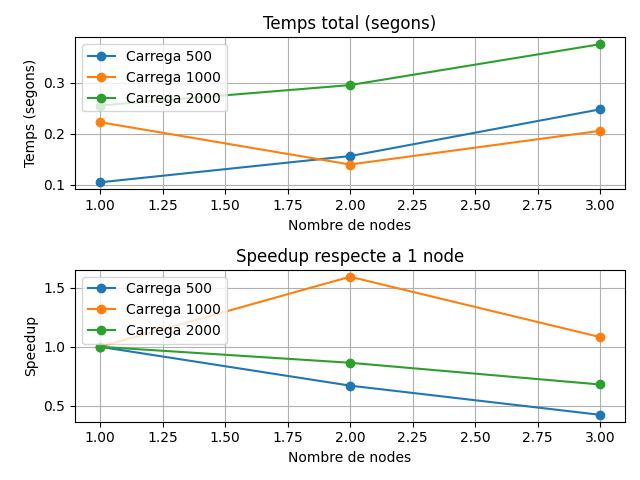
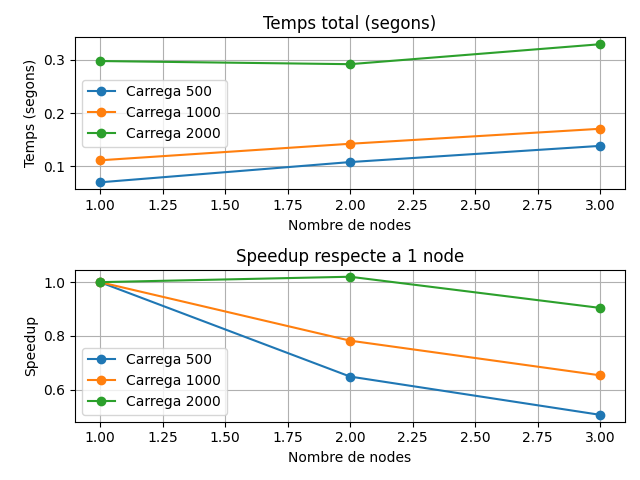
Readme subido

diff --git a/tests/rabbitmq/test_rabbitmq_single_node.py b/tests/rabbitmq/test_rabbitmq_single_node.py
@@ -80,7 +80,7 @@ def main():
 
     plt.figure(figsize=(8,5))
     plt.plot(loads, times, marker='o')
-    plt.title("Temps enviament + filtratge insults (sense modificar insult_filter.py)")
+    plt.title("Temps enviament + filtratge insults")
     plt.xlabel("Nombre d'insults enviats")
     plt.ylabel("Temps total (segons)")
     plt.grid(True)

diff --git a/redis/insult_filter.py b/redis/insult_filter.py
@@ -27,7 +27,7 @@ def insult_filter():
             else:
                 print(f"InsultFilter: Text filtrat '{filtered_text}' ja es troba a la llista")
             
-        time.sleep(0.01)
+        #time.sleep(0.01)
 
 if __name__ == "__main__":
     insult_filter()

diff --git a/README.md b/README.md
@@ -1,0 +1,95 @@
+# 🤬 InsultService & InsultFilter 🚫
+
+Este repositorio contiene implementaciones de los servicios **InsultService** e **InsultFilter** utilizando diferentes tecnologías de comunicación: XMLRPC, Pyro4, Redis y RabbitMQ. También incluye scripts para ejecutar tests y pruebas de rendimiento.
+
+---
+
+## ⚙ Ejecución
+
+### 🛠 XMLRPC
+
+- Ejecutar el servidor **InsultService**:
+
+  ```bash
+  python3 xmlrpc/insult_service.py
+  ```
+
+- Ejecutar el servidor **InsultFilter**:
+
+  ```bash
+  python3 xmlrpc/insult_filter.py
+  ```
+
+- Ejecutar los tests:
+
+  ```bash
+  python3 tests/xmlrpc/test1.py
+  ```
+
+---
+
+### 🔥 Pyro4
+
+- Iniciar el Name Server de Pyro4 (necesario para registrar y localizar objetos remotos):
+
+  ```bash
+  python3 -m Pyro4.naming
+  ```
+
+- Ejecutar el servidor **InsultService**:
+
+  ```bash
+  python3 pyro/insult_service.py
+  ```
+
+- Ejecutar el servidor **InsultFilter**:
+
+  ```bash
+  python3 pyro/insult_filter.py
+  ```
+
+- Ejecutar los tests de rendimiento:
+
+  ```bash
+  python3 tests/pyro/test1.py
+  ```
+
+---
+
+### 🐹 Redis
+
+- Descargar y ejecutar Redis con Docker:
+
+  ```bash
+  docker pull redis
+  docker run --name my-redis -d -p 6379:6379 redis
+  ```
+
+- Ejecutar los tests:
+
+  ```bash
+  python3 tests/redis/test_redis_[nombre].py
+  ```
+
+---
+
+### 🐰 RabbitMQ
+
+- Descargar y ejecutar RabbitMQ con Docker:
+
+  ```bash
+  docker pull rabbitmq:management
+  docker run -d --name rabbitmq -p 5672:5672 -p 15672:15672 rabbitmq:management
+  ```
+
+- Ejecutar los tests:
+
+  ```bash
+  python3 tests/rabbitmq/test_rabbitmq_[nombre].py
+  ```
+
+---
+
+## 📝 Notas
+
+- Cambia `[nombre]` por el nombre específico del test que quieres ejecutar en Redis o RabbitMQ.
